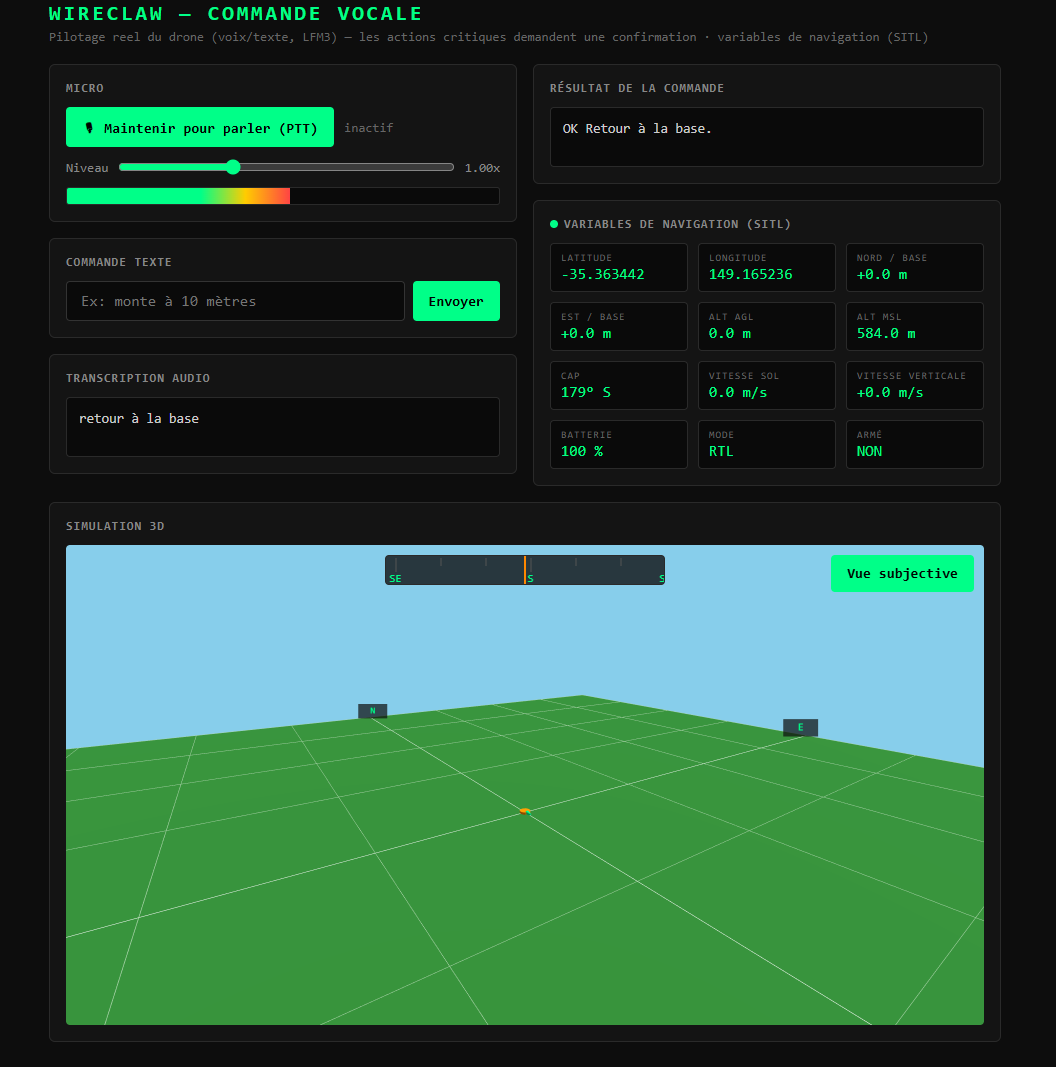
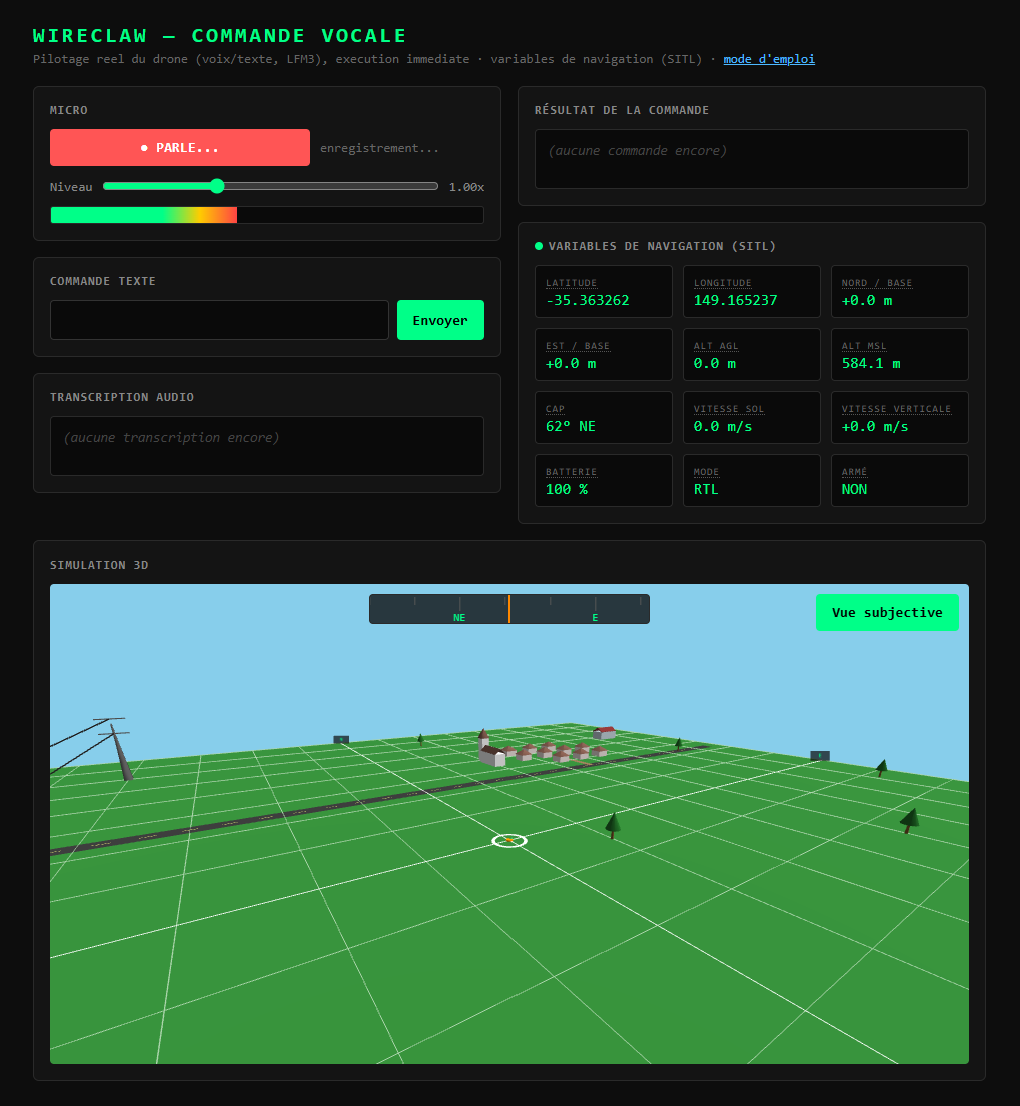
Enrichit la scene 3D (hameau, eglise, foret, ligne electrique, route, anneau de base) et met a jour le README
Scene (voice_bridge/index.html, page sable) :
- Ligne electrique de 3 pylones + cables, repositionnee a 100m du bord
  (x=-100) suite a une premiere position trop proche du centre.
- Hangar agricole et mur (cible d'inspection) repartis sur la carte
  (initialement trop centres, corrige suite a un retour direct).
- Hameau de 10 maisons groupees au nord-est du centre, relie a la route
  par un chemin de terre.
- Eglise (nef + clocher a fleche) a cote du hameau.
- Route goudronnee (380m) avec ligne centrale pointillee.
- Petite foret de 50 arbres disperses aleatoirement dans un disque, avec
  clairiere au nord-ouest, deplacee au sud-est du centre.
- Anneau blanc au sol (10m de diametre, 1m d'epaisseur) marquant la
  position de la base.
- Corrige un bug de rotation sur les toits a deux pans (hangar + eglise) :
  le signe de rotation.x/rotation.z etait invertise, donnant un toit en
  V (bords en haut, centre en bas) au lieu d'un toit en A. Verifie
  mathematiquement avant correction.
- guide.html : precise que tout le decor est purement visuel, sans
  collision ni lien avec le calcul d'altitude (sol plat inchange).

README.md : nouvelle capture d'ecran (docs/sable-screenshot.png)
montrant la scene enrichie.

Note : web_server.py (/sim3d, page independante) n'a pas encore ete
resynchronisee avec ces ajouts — reste sur l'ancienne version (2 maisons,
pas de foret/eglise/anneau). A faire en suivi.

diff --git a/voice_bridge/index.html b/voice_bridge/index.html
@@ -423,16 +423,16 @@ const sun3d = new THREE.DirectionalLight(0xffffff, 0.8);
 sun3d.position.set(80, 120, 60);
 scene3d.add(sun3d);
 
-// Sol 200x200m vert
+// Sol 400x400m vert
 const ground3d = new THREE.Mesh(
-  new THREE.PlaneGeometry(200, 200),
+  new THREE.PlaneGeometry(400, 400),
   new THREE.MeshStandardMaterial({ color: 0x2e7d32 })
 );
 ground3d.rotation.x = -Math.PI / 2;
 scene3d.add(ground3d);
 
-// Repères tous les 25m (grille 200/8 divisions)
-const grid3d = new THREE.GridHelper(200, 8, 0xffffff, 0xaad4aa);
+// Repères tous les 25m (grille 400/16 divisions)
+const grid3d = new THREE.GridHelper(400, 16, 0xffffff, 0xaad4aa);
 grid3d.position.y = 0.01;
 scene3d.add(grid3d);
 
@@ -452,12 +452,206 @@ function addLabel3d(text, x, z) {
   sprite.position.set(x, 3, z);
   scene3d.add(sprite);
 }
-addLabel3d('N', 0, -95);
-addLabel3d('S', 0, 95);
-addLabel3d('E', 95, 0);
-addLabel3d('O', -95, 0);
+addLabel3d('N', 0, -195);
+addLabel3d('S', 0, 195);
+addLabel3d('E', 195, 0);
+addLabel3d('O', -195, 0);
+
+// Decor statique (purement visuel, aucun lien avec la logique de vol qui
+// suppose un sol plat — ne pas en deduire de relief ou de collision).
+function addTree3d(x, z) {
+  const trunk = new THREE.Mesh(
+    new THREE.CylinderGeometry(0.3, 0.4, 3, 8),
+    new THREE.MeshStandardMaterial({ color: 0x6d4c25 })
+  );
+  trunk.position.set(x, 1.5, z);
+  scene3d.add(trunk);
+  const foliage = new THREE.Mesh(
+    new THREE.ConeGeometry(2.2, 5, 10),
+    new THREE.MeshStandardMaterial({ color: 0x1b5e20 })
+  );
+  foliage.position.set(x, 5.5, z);
+  scene3d.add(foliage);
+}
+[[25, 15], [100, 60], [-90, 120], [-130, -100], [60, 180], [180, 30],
+ [-170, 40], [40, -160], [160, -60], [-60, 150], [120, 140], [-150, -170]]
+  .forEach(([x, z]) => addTree3d(x, z));
+
+// Mur (cible d'inspection)
+const wall3d = new THREE.Mesh(
+  new THREE.BoxGeometry(20, 3, 0.5),
+  new THREE.MeshStandardMaterial({ color: 0x9e9e9e })
+);
+wall3d.position.set(130, 1.5, 170);
+scene3d.add(wall3d);
+
+// Pylone electrique (cible d'inspection typique) : fut effile en 4
+// segments carres + deux bras transversaux pour les isolateurs, ~27m.
+function addPylon3d(x, z) {
+  const group = new THREE.Group();
+  group.position.set(x, 0, z);
+  scene3d.add(group);
+  const mat = new THREE.MeshStandardMaterial({ color: 0x555555 });
+  const heights = [0, 8, 16, 24];
+  const widths = [4, 2.6, 1.4, 0.6];
+  for (let i = 0; i < heights.length - 1; i++) {
+    const h = heights[i + 1] - heights[i];
+    const seg = new THREE.Mesh(
+      new THREE.CylinderGeometry(widths[i + 1] / 2, widths[i] / 2, h, 4),
+      mat
+    );
+    seg.position.y = heights[i] + h / 2;
+    seg.rotation.y = Math.PI / 4; // section carree, pas ronde
+    group.add(seg);
+  }
+  [20, 26].forEach((y) => {
+    const arm = new THREE.Mesh(new THREE.BoxGeometry(10, 0.4, 0.4), mat);
+    arm.position.y = y;
+    group.add(arm);
+  });
+}
+// Ligne electrique : 3 pylones alignes + cables entre les bras (100m du bord)
+[-150, 0, 150].forEach((z) => addPylon3d(-100, z));
+[20, 26].forEach((armY) => {
+  const pts = [-150, 0, 150].map((z) => new THREE.Vector3(-100, armY, z));
+  const wireGeo = new THREE.BufferGeometry().setFromPoints(pts);
+  scene3d.add(new THREE.Line(wireGeo, new THREE.LineBasicMaterial({ color: 0x222222 })));
+});
+
+// Hangar agricole : corps + toit a deux pans (deux panneaux inclines)
+function addHangar3d(x, z) {
+  const group = new THREE.Group();
+  group.position.set(x, 0, z);
+  scene3d.add(group);
+  const W = 14, D = 8, H = 5, roofH = 2.5;
+  const body = new THREE.Mesh(
+    new THREE.BoxGeometry(W, H, D),
+    new THREE.MeshStandardMaterial({ color: 0xb0bec5 })
+  );
+  body.position.y = H / 2;
+  group.add(body);
+  const slopeLen = Math.sqrt((D / 2) ** 2 + roofH ** 2);
+  const angle = Math.atan2(roofH, D / 2);
+  const roofMat = new THREE.MeshStandardMaterial({ color: 0x7a2e2e });
+  const slope1 = new THREE.Mesh(new THREE.BoxGeometry(W, 0.3, slopeLen), roofMat);
+  slope1.position.set(0, H + roofH / 2, D / 4);
+  slope1.rotation.x = angle;
+  group.add(slope1);
+  const slope2 = new THREE.Mesh(new THREE.BoxGeometry(W, 0.3, slopeLen), roofMat);
+  slope2.position.set(0, H + roofH / 2, -D / 4);
+  slope2.rotation.x = -angle;
+  group.add(slope2);
+}
+addHangar3d(160, -120);
+
+// Maisons : corps + toit pyramidal (cone a 4 faces)
+function addHouse3d(x, z) {
+  const group = new THREE.Group();
+  group.position.set(x, 0, z);
+  scene3d.add(group);
+  const body = new THREE.Mesh(
+    new THREE.BoxGeometry(6, 3, 6),
+    new THREE.MeshStandardMaterial({ color: 0xd7ccc8 })
+  );
+  body.position.y = 1.5;
+  group.add(body);
+  const roof = new THREE.Mesh(
+    new THREE.ConeGeometry(4.8, 2.5, 4),
+    new THREE.MeshStandardMaterial({ color: 0x6d4c41 })
+  );
+  roof.position.y = 3 + 1.25;
+  roof.rotation.y = Math.PI / 4;
+  group.add(roof);
+}
+// Hameau de 10 maisons groupees au nord-est du centre (nord = -Z, est = +X)
+[[-21, -14], [-7, -14], [7, -14],
+ [-21, 0], [-7, 0], [7, 0], [21, 0],
+ [-7, 14], [7, 14], [21, 14]]
+  .forEach(([dx, dz]) => addHouse3d(90 + dx, -90 + dz));
+
+// Chemin reliant le hameau a la route
+const path3d = new THREE.Mesh(
+  new THREE.PlaneGeometry(3, 30),
+  new THREE.MeshStandardMaterial({ color: 0x8d6e4f })
+);
+path3d.rotation.x = -Math.PI / 2;
+path3d.position.set(90, 0.025, -75);
+scene3d.add(path3d);
+
+// Eglise : nef (toit a deux pans) + clocher (fleche pyramidale)
+function addChurch3d(x, z) {
+  const group = new THREE.Group();
+  group.position.set(x, 0, z);
+  scene3d.add(group);
+  const wallMat = new THREE.MeshStandardMaterial({ color: 0xe0e0e0 });
+  const roofMat = new THREE.MeshStandardMaterial({ color: 0x5d4037 });
+  const Wd = 6, Len = 14, H = 6, roofH = 2.5;
+  const nave = new THREE.Mesh(new THREE.BoxGeometry(Wd, H, Len), wallMat);
+  nave.position.y = H / 2;
+  group.add(nave);
+  const slopeLen = Math.sqrt((Wd / 2) ** 2 + roofH ** 2);
+  const angle = Math.atan2(roofH, Wd / 2);
+  const slopeA = new THREE.Mesh(new THREE.BoxGeometry(slopeLen, 0.3, Len), roofMat);
+  slopeA.position.set(Wd / 4, H + roofH / 2, 0);
+  slopeA.rotation.z = -angle;
+  group.add(slopeA);
+  const slopeB = new THREE.Mesh(new THREE.BoxGeometry(slopeLen, 0.3, Len), roofMat);
+  slopeB.position.set(-Wd / 4, H + roofH / 2, 0);
+  slopeB.rotation.z = angle;
+  group.add(slopeB);
+  const towerH = 12;
+  const tower = new THREE.Mesh(new THREE.BoxGeometry(4, towerH, 4), wallMat);
+  tower.position.set(0, towerH / 2, -Len / 2 - 2);
+  group.add(tower);
+  const spire = new THREE.Mesh(new THREE.ConeGeometry(3.2, 5, 4), roofMat);
+  spire.position.set(0, towerH + 2.5, -Len / 2 - 2);
+  spire.rotation.y = Math.PI / 4;
+  group.add(spire);
+}
+addChurch3d(50, -90);
+
+// Petite foret (50 arbres) avec clairiere au nord-ouest (nord = -Z, ouest = -X)
+(function addForest3d(cx, cz, radius, count) {
+  let placed = 0, guard = 0;
+  while (placed < count && guard < 3000) {
+    guard++;
+    const dx = (Math.random() * 2 - 1) * radius;
+    const dz = (Math.random() * 2 - 1) * radius;
+    if (dx * dx + dz * dz > radius * radius) continue;
+    if (dx < 0 && dz < 0) continue; // clairiere nord-ouest
+    addTree3d(cx + dx, cz + dz);
+    placed++;
+  }
+})(130, 130, 55, 50);
+
+// Route (bande d'asphalte + ligne centrale pointillee)
+const road3d = new THREE.Mesh(
+  new THREE.PlaneGeometry(380, 6),
+  new THREE.MeshStandardMaterial({ color: 0x333333 })
+);
+road3d.rotation.x = -Math.PI / 2;
+road3d.position.set(0, 0.02, -60);
+scene3d.add(road3d);
+for (let i = -185; i < 185; i += 10) {
+  const seg = new THREE.Mesh(
+    new THREE.PlaneGeometry(4, 0.3),
+    new THREE.MeshStandardMaterial({ color: 0xcccc66 })
+  );
+  seg.rotation.x = -Math.PI / 2;
+  seg.position.set(i, 0.03, -60);
+  scene3d.add(seg);
+}
 
 // Drone : mat (sol -> altitude) + corps + nez oriente selon le cap
+// Marquage au sol de la base : anneau blanc, 10m de diametre, 1m d'epaisseur
+const basePad3d = new THREE.Mesh(
+  new THREE.RingGeometry(4, 5, 48),
+  new THREE.MeshStandardMaterial({ color: 0xffffff, side: THREE.DoubleSide })
+);
+basePad3d.rotation.x = -Math.PI / 2;
+basePad3d.position.set(0, 0.015, 0);
+scene3d.add(basePad3d);
+
 const droneGroup3d = new THREE.Group();
 scene3d.add(droneGroup3d);
 const body3d = new THREE.Mesh(

diff --git a/voice_bridge/guide.html b/voice_bridge/guide.html
@@ -164,6 +164,7 @@
     <h2>Vue 3D</h2>
     <p><strong>Vue orbite (par défaut)</strong> — cliquer-glisser pour tourner autour du drone, molette pour zoomer.</p>
     <p><strong>Vue subjective</strong> — bouton en haut à droite du canvas. Bascule sur une caméra embarquée sur le drone (FOV 50°, inclinée 45° vers le bas, simulant une caméra d'inspection). Le bandeau boussole en haut indique le cap actuel en continu.</p>
+    <p><strong>Décor (arbres, mur)</strong> — le terrain (400×400m) et les objets affichés sont <strong>purement décoratifs</strong>, pour donner un repère visuel de distance et d'échelle. Ils ne sont pas pris en compte dans la simulation de vol (pas de collision, pas de relief réel) : le calcul d'altitude reste basé sur un sol plat. Un arbre ou un mur à l'écran n'empêche donc pas le drone de "voler à travers".</p>
   </div>
 </body>
 </html>

diff --git a/web_server.py b/web_server.py
@@ -453,20 +453,20 @@ const sun = new THREE.DirectionalLight(0xffffff, 0.8);
 sun.position.set(80, 120, 60);
 scene.add(sun);
 
-// --- Sol 200x200m, vert ---
+// --- Sol 400x400m, vert ---
 const ground = new THREE.Mesh(
-  new THREE.PlaneGeometry(200, 200),
+  new THREE.PlaneGeometry(400, 400),
   new THREE.MeshStandardMaterial({ color: 0x2e7d32 })
 );
 ground.rotation.x = -Math.PI / 2;
 scene.add(ground);
 
-// --- Repères tous les 25m (grille 200/25 = 8 divisions) ---
-const grid = new THREE.GridHelper(200, 8, 0xffffff, 0xaad4aa);
+// --- Repères tous les 25m (grille 400/16 divisions) ---
+const grid = new THREE.GridHelper(400, 16, 0xffffff, 0xaad4aa);
 grid.position.y = 0.01;
 scene.add(grid);
 
-// Points cardinaux a 95m du centre, pour se reperer avec le cap
+// Points cardinaux a 195m du centre, pour se reperer avec le cap
 function addLabel(text, x, z) {
   const canvas = document.createElement('canvas');
   canvas.width = 128; canvas.height = 64;
@@ -484,10 +484,63 @@ function addLabel(text, x, z) {
   sprite.position.set(x, 3, z);
   scene.add(sprite);
 }
-addLabel('N', 0, -95);
-addLabel('S', 0, 95);
-addLabel('E', 95, 0);
-addLabel('O', -95, 0);
+addLabel('N', 0, -195);
+addLabel('S', 0, 195);
+addLabel('E', 195, 0);
+addLabel('O', -195, 0);
+
+// Decor statique (purement visuel, aucun lien avec la logique de vol qui
+// suppose un sol plat — ne pas en deduire de relief ou de collision).
+function addTree(x, z) {
+  const trunk = new THREE.Mesh(
+    new THREE.CylinderGeometry(0.3, 0.4, 3, 8),
+    new THREE.MeshStandardMaterial({ color: 0x6d4c25 })
+  );
+  trunk.position.set(x, 1.5, z);
+  scene.add(trunk);
+  const foliage = new THREE.Mesh(
+    new THREE.ConeGeometry(2.2, 5, 10),
+    new THREE.MeshStandardMaterial({ color: 0x1b5e20 })
+  );
+  foliage.position.set(x, 5.5, z);
+  scene.add(foliage);
+}
+[[25, 15], [35, -10], [-20, 30], [-30, -25], [15, 45], [50, 20], [-45, 10], [10, -40]]
+  .forEach(([x, z]) => addTree(x, z));
+
+const wall = new THREE.Mesh(
+  new THREE.BoxGeometry(20, 3, 0.5),
+  new THREE.MeshStandardMaterial({ color: 0x9e9e9e })
+);
+wall.position.set(40, 1.5, 10);
+scene.add(wall);
+
+// Pylone electrique (cible d'inspection typique) : fut effile en 4
+// segments carres + deux bras transversaux pour les isolateurs, ~27m.
+function addPylon(x, z) {
+  const group = new THREE.Group();
+  group.position.set(x, 0, z);
+  scene.add(group);
+  const mat = new THREE.MeshStandardMaterial({ color: 0x555555 });
+  const heights = [0, 8, 16, 24];
+  const widths = [4, 2.6, 1.4, 0.6];
+  for (let i = 0; i < heights.length - 1; i++) {
+    const h = heights[i + 1] - heights[i];
+    const seg = new THREE.Mesh(
+      new THREE.CylinderGeometry(widths[i + 1] / 2, widths[i] / 2, h, 4),
+      mat
+    );
+    seg.position.y = heights[i] + h / 2;
+    seg.rotation.y = Math.PI / 4;
+    group.add(seg);
+  }
+  [20, 26].forEach((y) => {
+    const arm = new THREE.Mesh(new THREE.BoxGeometry(10, 0.4, 0.4), mat);
+    arm.position.y = y;
+    group.add(arm);
+  });
+}
+addPylon(-50, -30);
 
 // --- Drone : mat (ligne verticale jusqu'au sol) + corps + nez (cap) ---
 const droneGroup = new THREE.Group();
